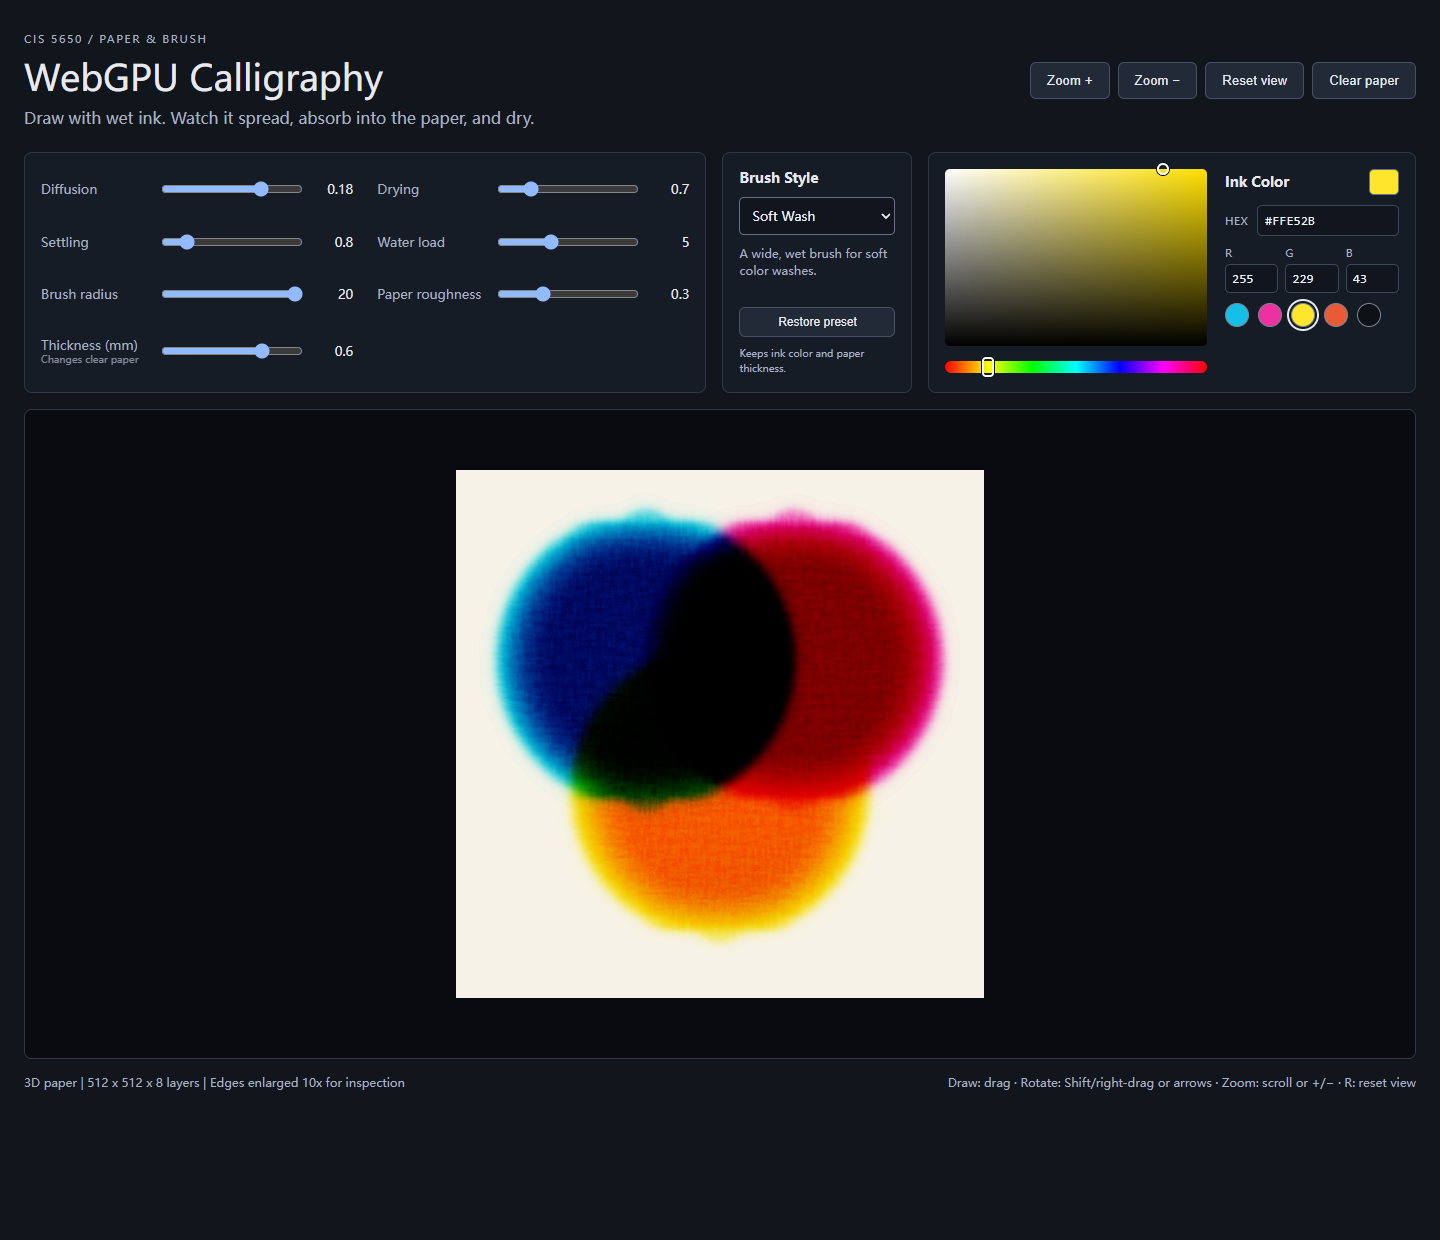
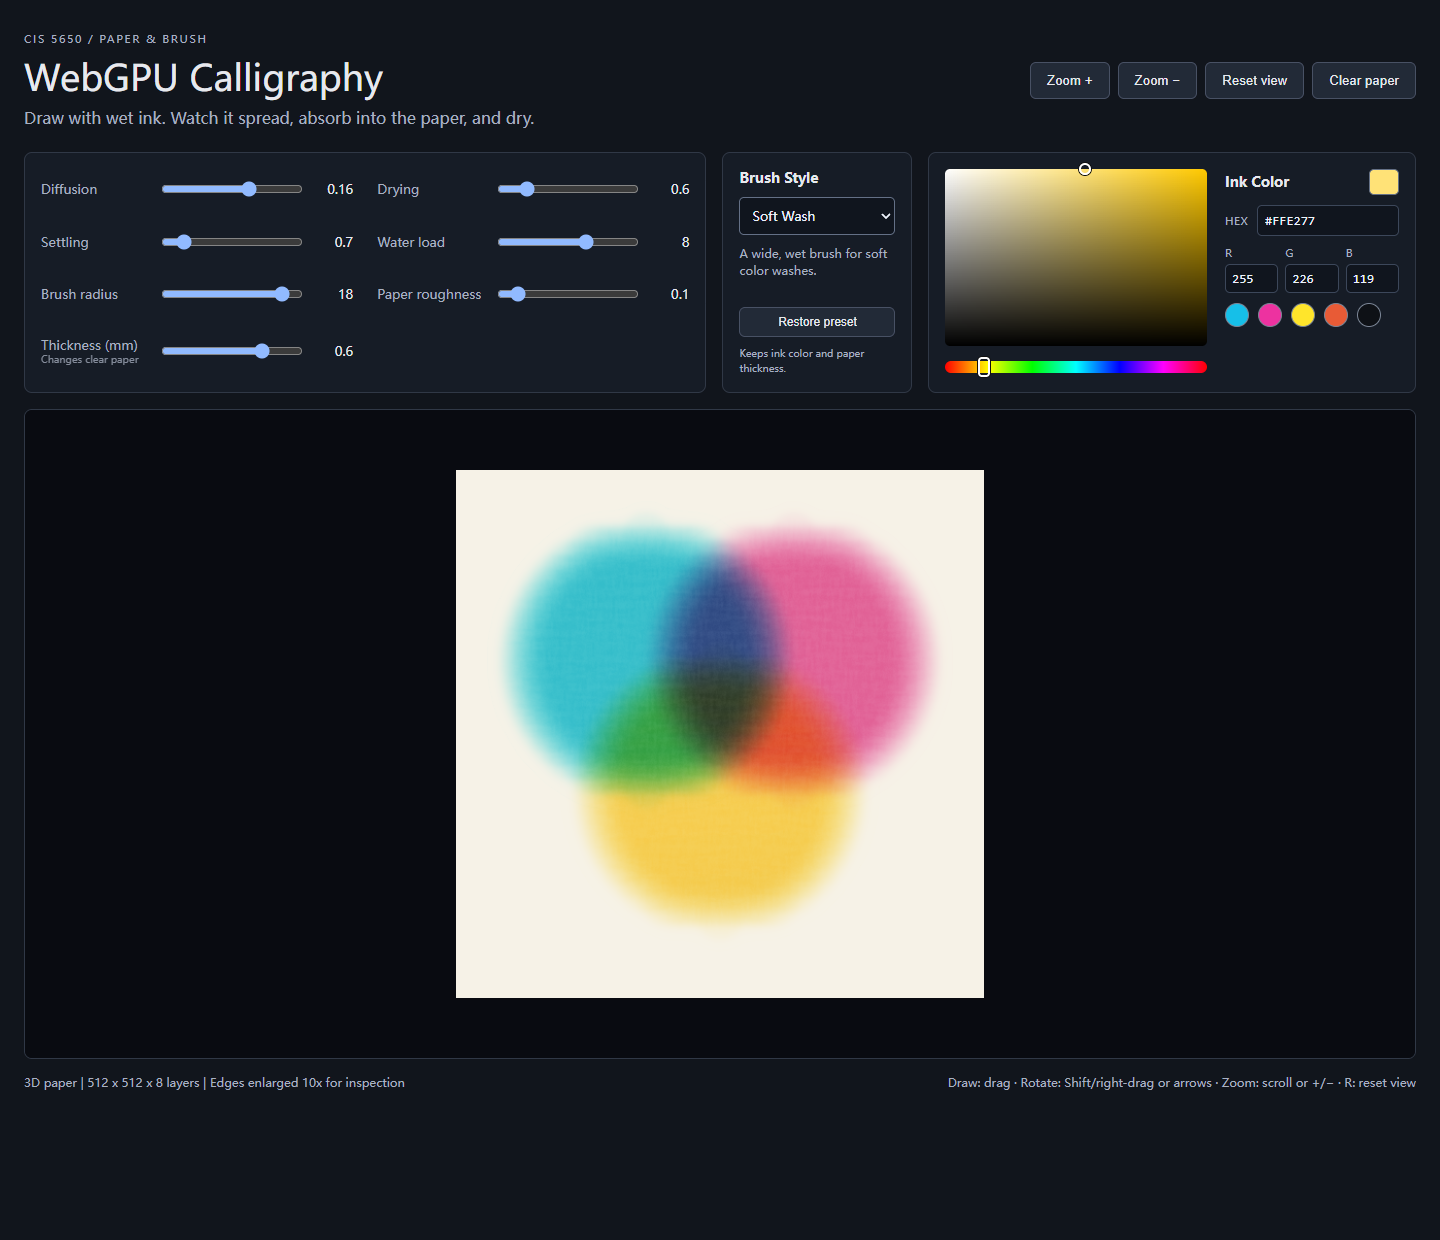
Clarify three-way color mixing with lighter wash layers

diff --git a/tests/make-color-mixing-gif.py b/tests/make-color-mixing-gif.py
@@ -4,8 +4,11 @@ root=Path(__file__).resolve().parents[1]
 # Shared palette includes both the dark interface and all overlapping ink colors.
 palette=Image.open(root/'media/color-mixing-page.png').convert('RGB').quantize(colors=256)
 frames=[]
-for path in sorted((root/'media/frames/color-mixing').glob('[0-9]*.png')):
+for path in sorted((root/'media/frames/color-mixing-light-glazes').glob('[0-9]*.png')):
  with Image.open(path) as im:
   frames.append(im.convert('RGB').resize((1152,992),Image.Resampling.LANCZOS).quantize(palette=palette,dither=Image.Dither.FLOYDSTEINBERG))
-frames[0].save(root/'media/color-mixing-demo.gif',save_all=True,append_images=frames[1:],duration=40,loop=0,optimize=True)
+# Pause on the completed three-way blend so viewers can compare each overlap.
+durations=[40]*len(frames)
+durations[-1]=2500
+frames[0].save(root/'media/color-mixing-demo.gif',save_all=True,append_images=frames[1:],duration=durations,loop=0,optimize=True)
 print(len(frames),'frames')
